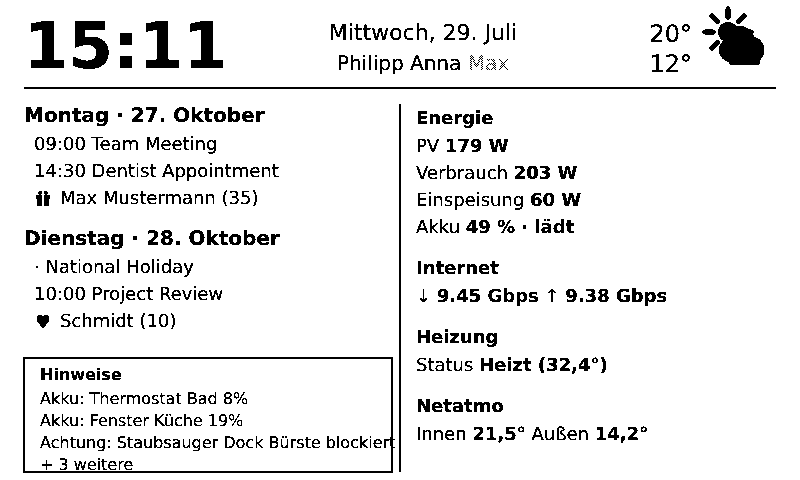
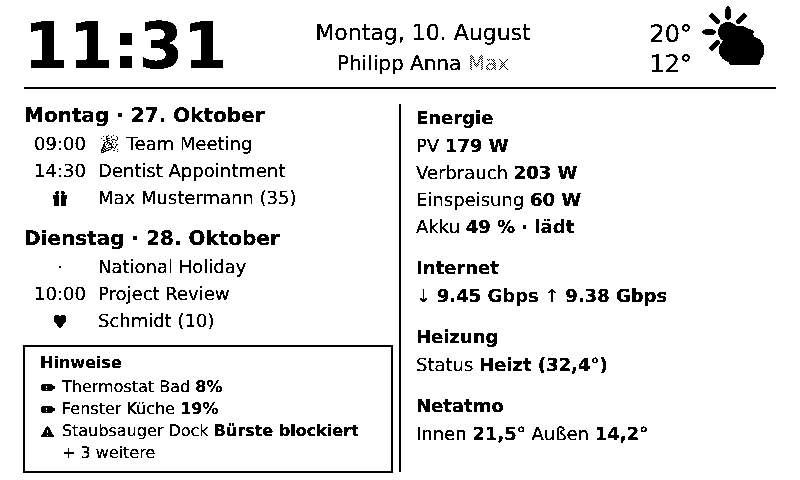
E-ink calendar: align all rows on a shared text column
Time (or the all-day dot / birthday / anniversary icon) sits in its own
column; every summary starts at the same x, like the timed rows.

diff --git a/server/utils/eink/layout.js b/server/utils/eink/layout.js
@@ -96,10 +96,13 @@ function batteryCompact(inv) {
   return ['Akku', value]
 }
 
-function eventLine(e) {
-  const prefix = e.all_day ? '·  ' : e.start_time + '  '
-  return prefix + truncate(e.summary, 30)
-}
+// Calendar event columns: the time (or, for all-day/special rows, a marker
+// icon) occupies EV_X..~86 ("09:00" in DejaVu 18 is ≈52px wide), and every
+// summary starts at the shared EV_TEXT_X so all rows align. Markers are
+// centred on the time column's midline (EV_MARK_CX).
+const EV_X = 34
+const EV_TEXT_X = 98
+const EV_MARK_CX = 60
 
 // Per-kind warning icons, mirroring the big dashboard's WarningsOverlay
 // (battery / droplet / wrench / warning triangle). Solid black fills with white
@@ -299,12 +302,17 @@ export function buildScreenSvg({ time, date, days, inverter, presence, speedtest
         if (y > calBottom) break outer
         const sp = e.special_event
         if (sp) {
-          // Birthday → gift, anniversary → heart, then the name and (age/years).
-          parts.push(sp.type === 'anniversary' ? heartIcon(34, y - 15, 18) : giftIcon(34, y - 15, 18))
+          // Birthday → gift, anniversary → heart, sitting in the time column.
+          parts.push(sp.type === 'anniversary' ? heartIcon(EV_MARK_CX - 9, y - 15, 18) : giftIcon(EV_MARK_CX - 9, y - 15, 18))
           const label = sp.name + (sp.years != null ? ` (${sp.years})` : '')
-          parts.push(`<text x="60" y="${y}" font-size="${FS.event}">${escapeXml(truncate(label, 24))}</text>`)
+          parts.push(`<text x="${EV_TEXT_X}" y="${y}" font-size="${FS.event}">${escapeXml(truncate(label, 30))}</text>`)
         } else {
-          parts.push(`<text x="34" y="${y}" font-size="${FS.event}">${escapeXml(eventLine(e))}</text>`)
+          if (e.all_day) {
+            parts.push(`<text x="${EV_MARK_CX}" y="${y}" font-size="${FS.event}" text-anchor="middle">·</text>`)
+          } else {
+            parts.push(`<text x="${EV_X}" y="${y}" font-size="${FS.event}">${escapeXml(e.start_time)}</text>`)
+          }
+          parts.push(`<text x="${EV_TEXT_X}" y="${y}" font-size="${FS.event}">${escapeXml(truncate(e.summary, 30))}</text>`)
         }
         y += ROW
       }

diff --git a/tests/eink/layout.test.js b/tests/eink/layout.test.js
@@ -95,6 +95,24 @@ describe('buildScreenSvg', () => {
     expect(svg).toContain('font-family="DejaVu Sans, Noto Emoji"')
   })
 
+  it('aligns all-day and special-event text with timed-event text', () => {
+    const alignDays = [
+      {
+        day: 'Heute',
+        date: '29. Juli',
+        events: [
+          { summary: 'Timed', start_time: '09:00', all_day: false },
+          { summary: 'Holiday', start_time: '00:00', all_day: true },
+          { special_event: { type: 'birthday', name: 'Max', years: 35 } },
+        ],
+      },
+    ]
+    const svg = buildScreenSvg({ time: '12:34', date: 'Mittwoch', days: alignDays, inverter })
+    const xOf = (label) => Number(svg.match(new RegExp(`<text x="(\\d+)" y="\\d+"[^>]*>${label}`))[1])
+    expect(xOf('Holiday')).toBe(xOf('Timed'))
+    expect(xOf('Max')).toBe(xOf('Timed'))
+  })
+
   it('escapes XML special characters in event summaries', () => {
     const svg = buildScreenSvg({ time: '12:34', date: 'Mittwoch', days, inverter })
     expect(svg).toContain('Zoo &amp; Aquarium &lt;Besuch&gt;')
